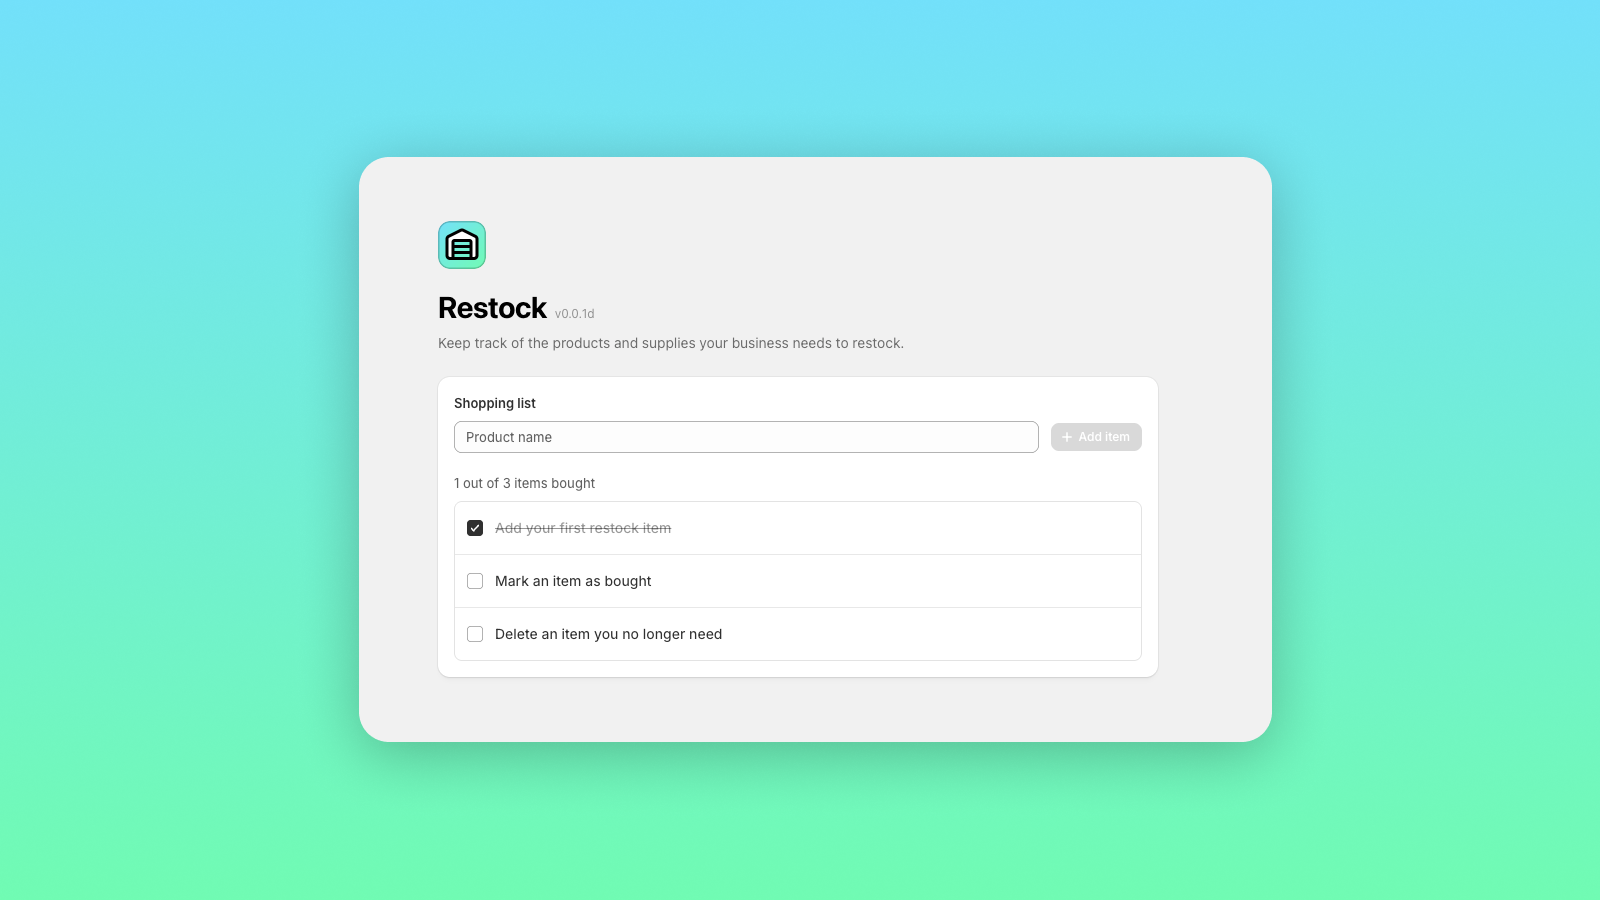
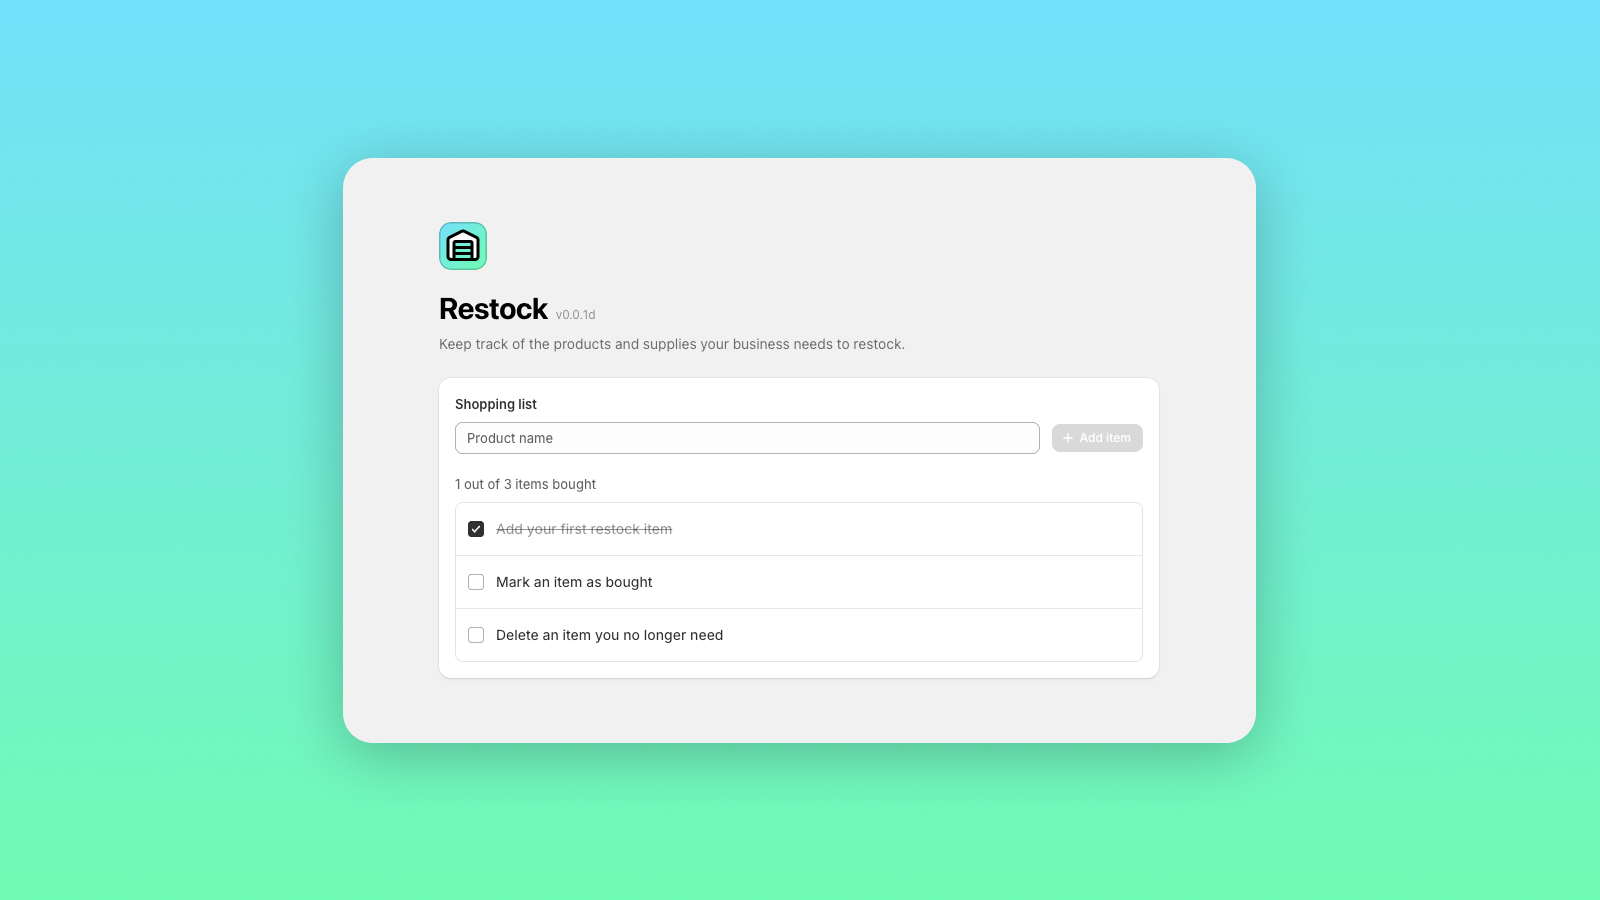
#develop fix typos

diff --git a/README.md b/README.md
@@ -2,8 +2,8 @@
   <img
     alt="Restock app logo"
     src="./.github/assets/logo.png"
-    width="150"
-    height="150"
+    width="120"
+    height="120"
   >
 </p>
 
